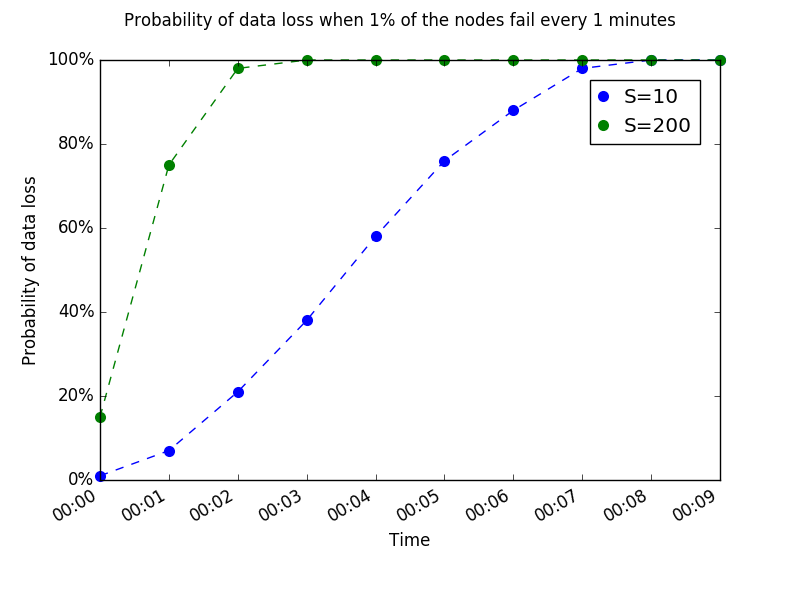
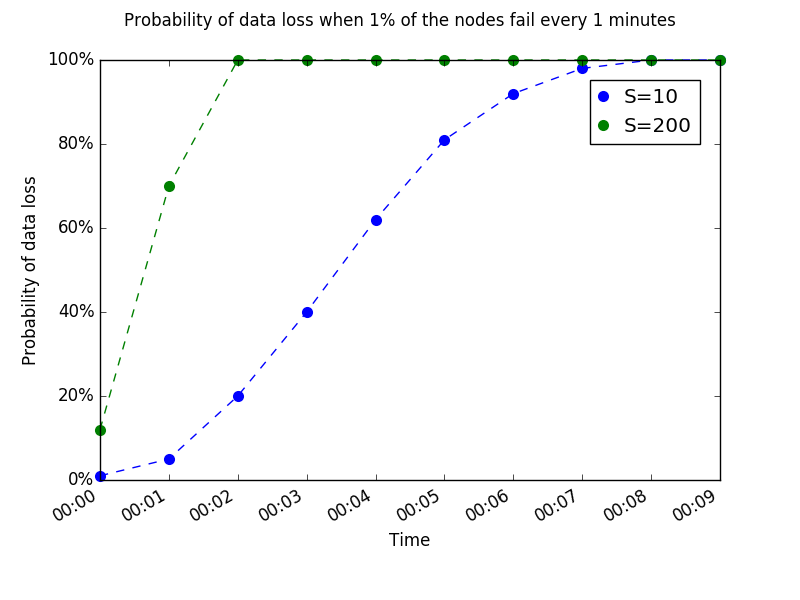
Commented out data loss propogating to later times

diff --git a/RepeatedFailures.py b/RepeatedFailures.py
@@ -77,8 +77,8 @@ class Runner(object):
    def failureProbOfDataLoss(self):
       # if lost data in previous failure, we are considered as having
       # lost data in this failure as well
-      if self.lostData:
-         return 1.0
+      # if self.lostData:
+      #    return 1.0
 
       # fail 1% of the nodes (remove from live, add to failed)
       newFailedNodes = set(
